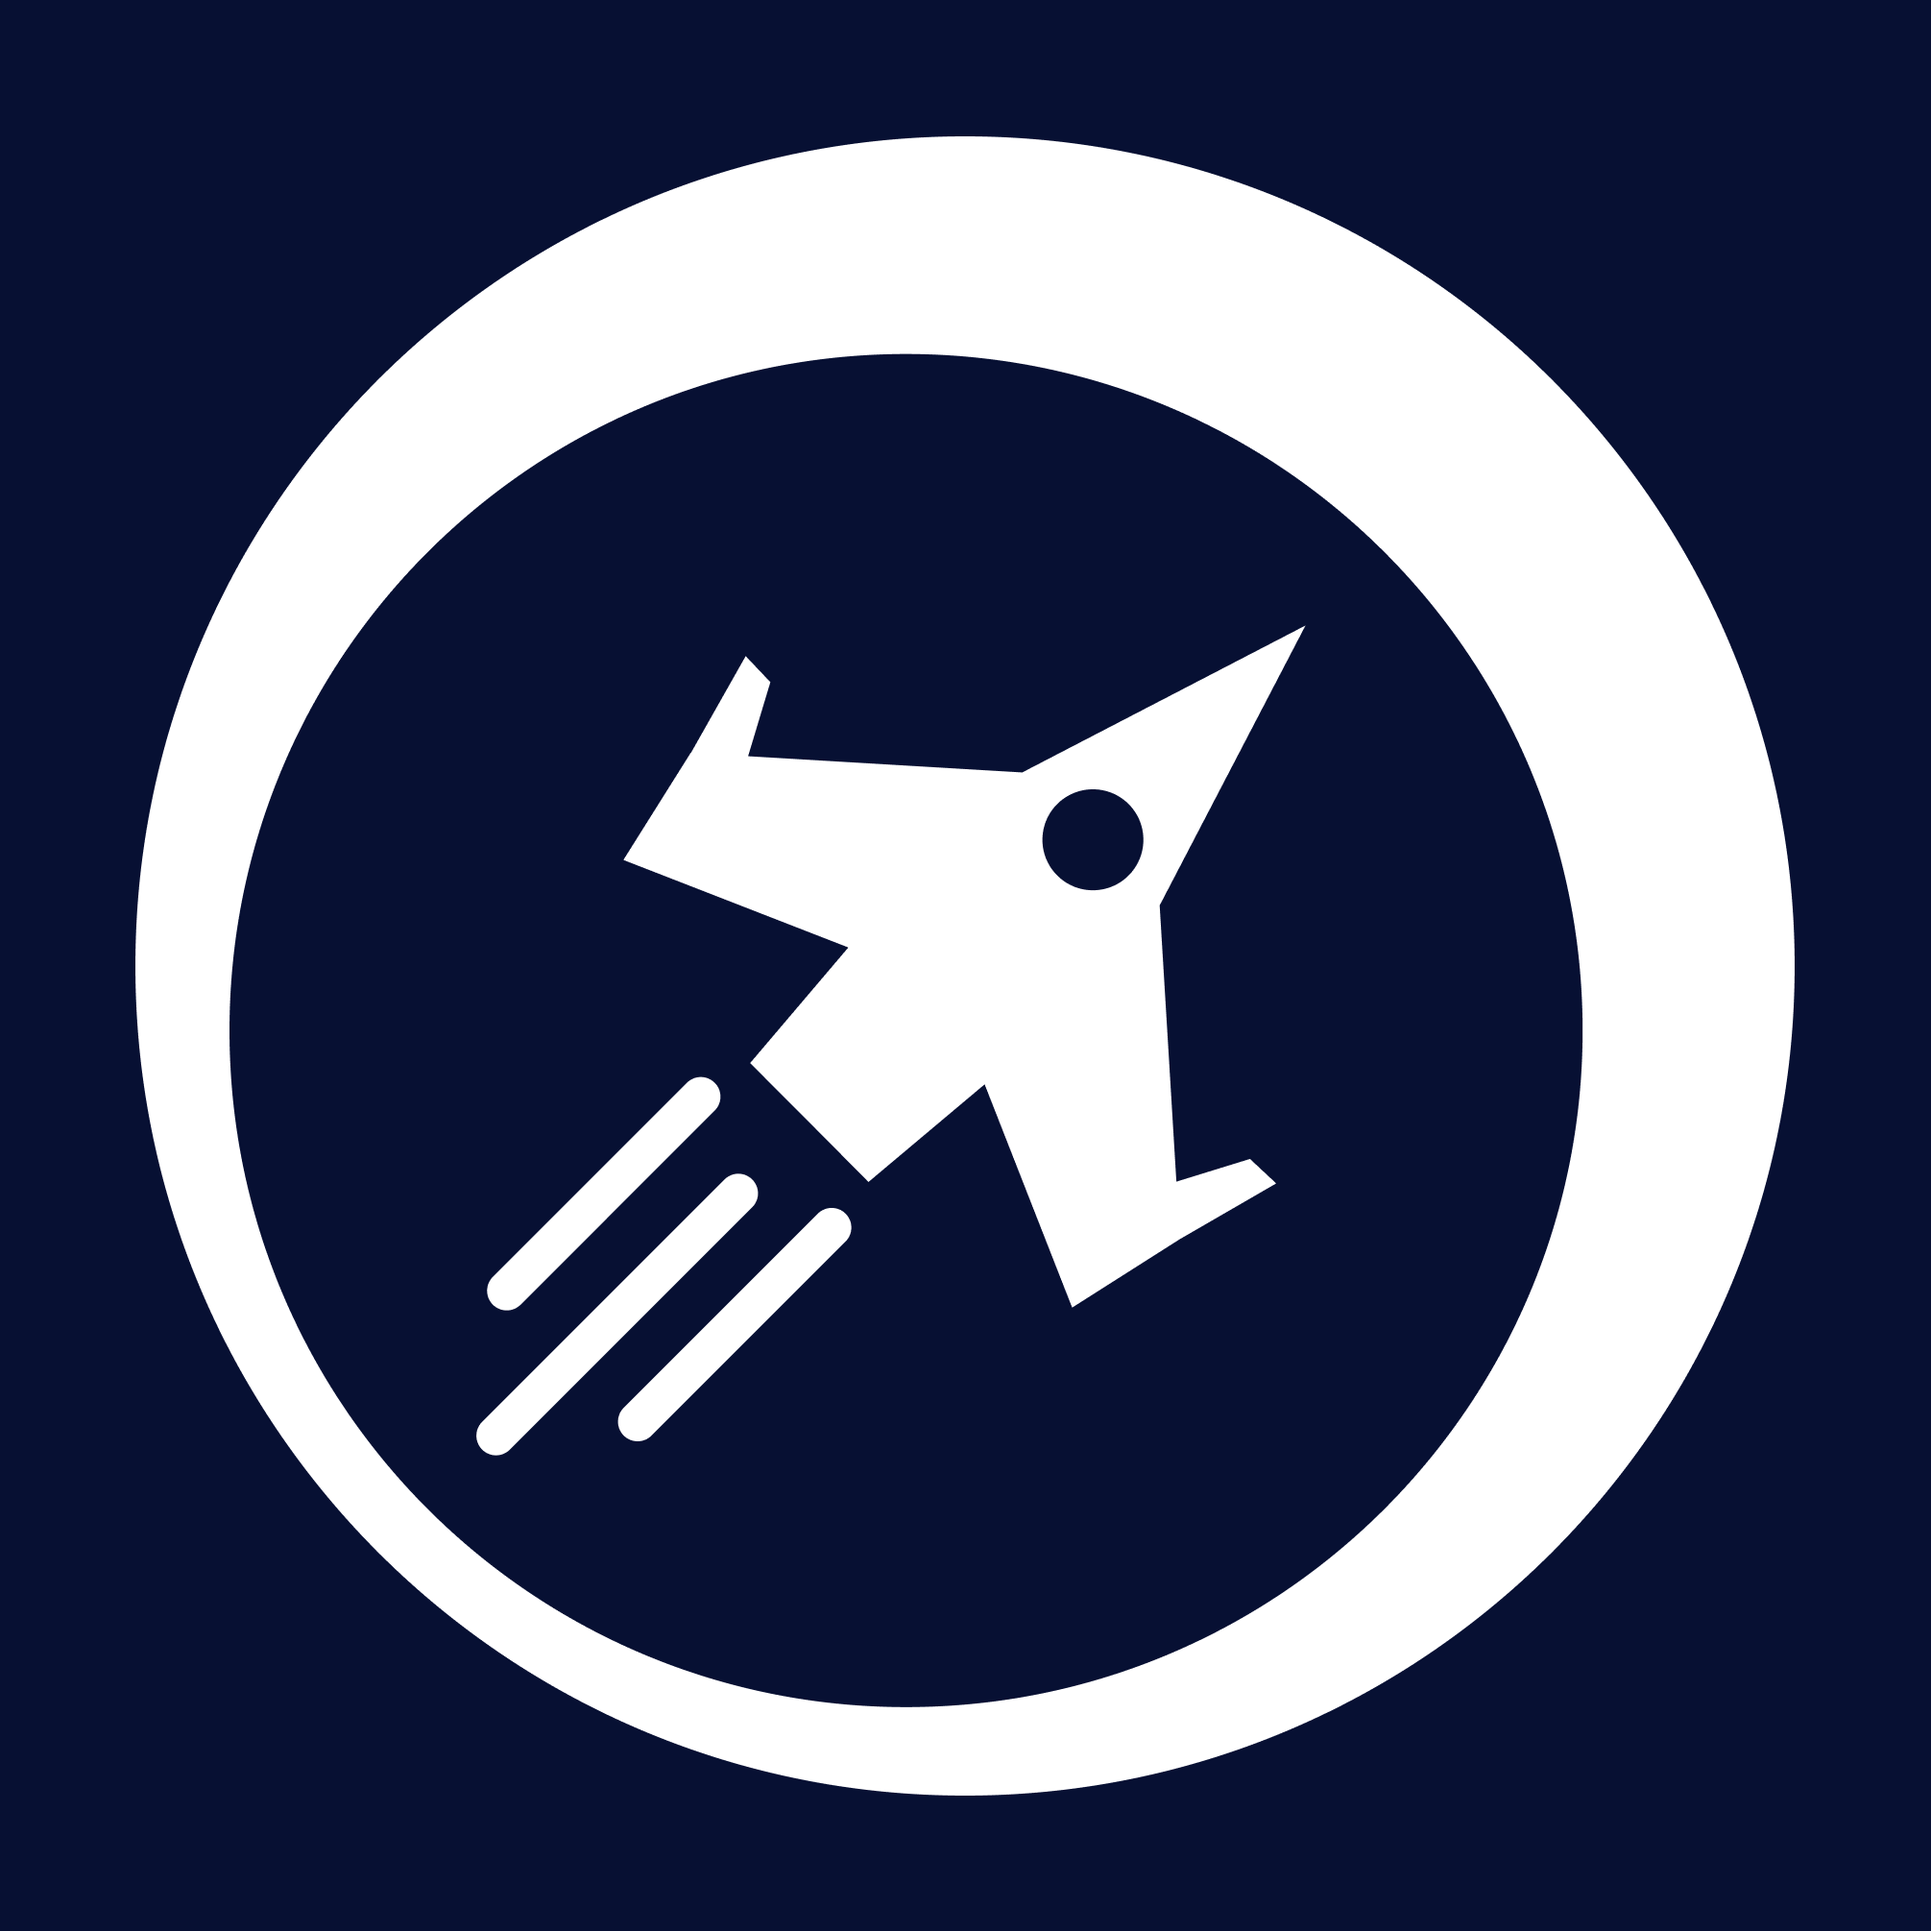
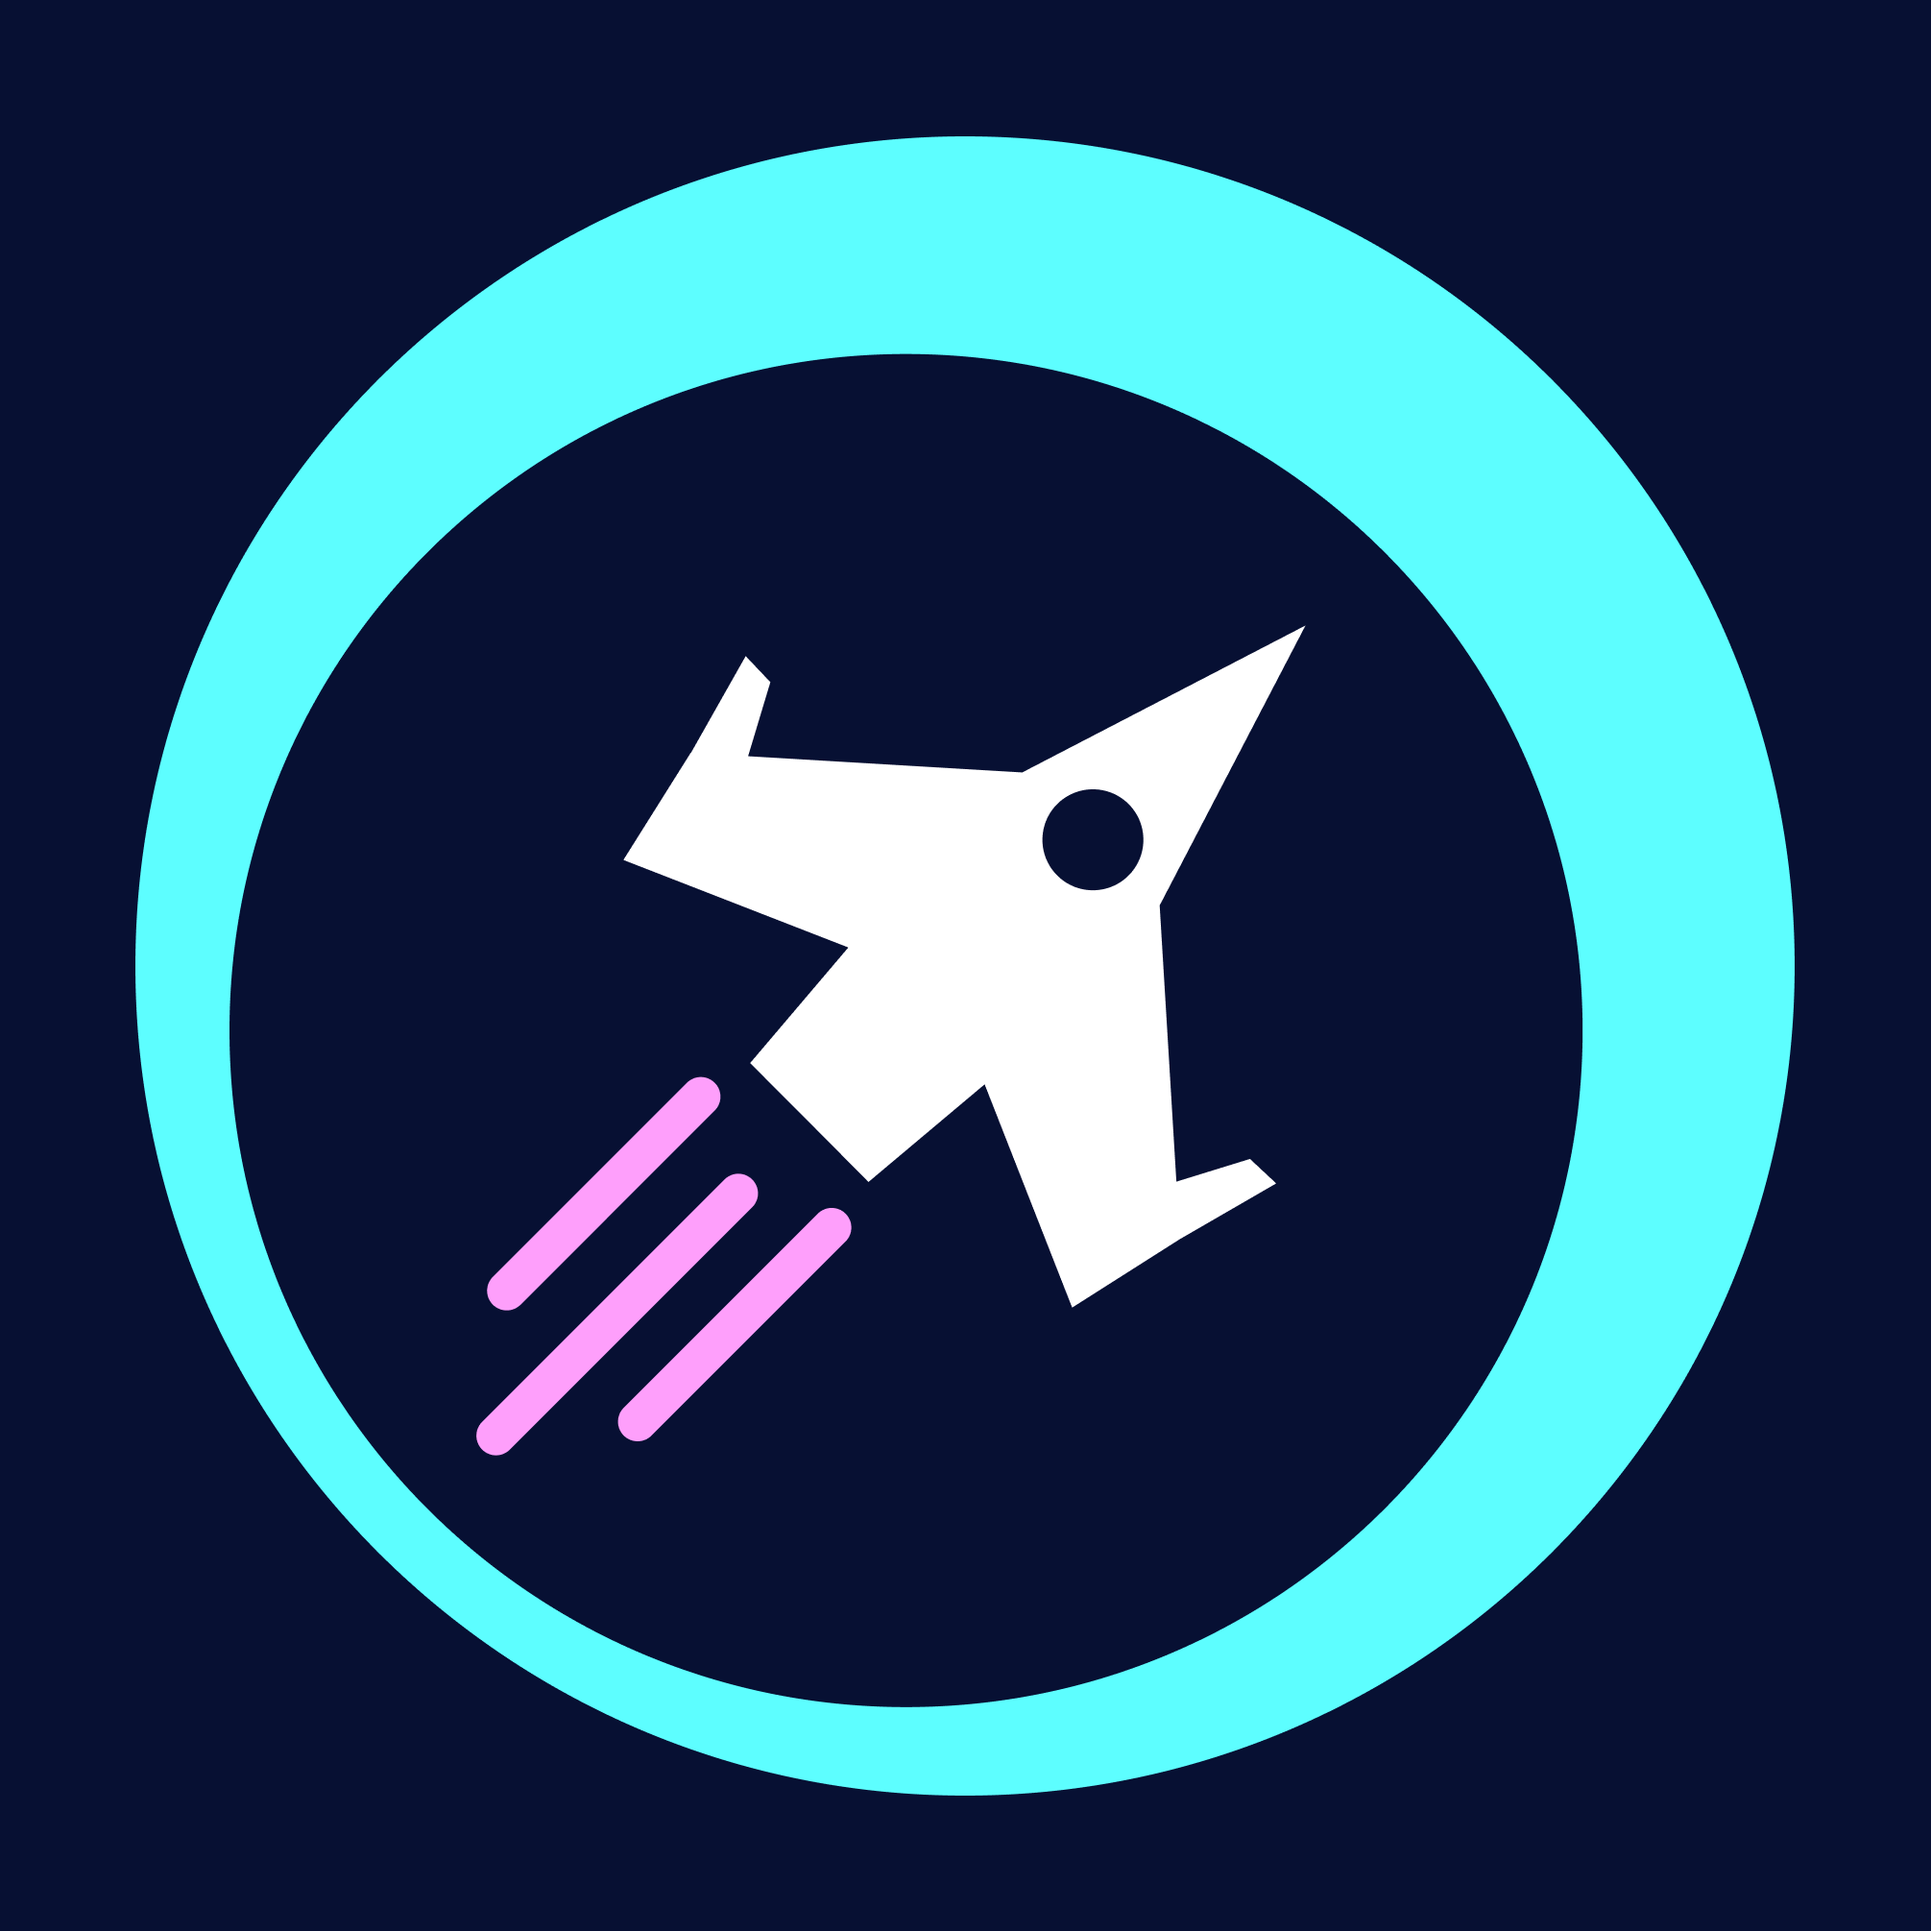
Icona: ciano/bianco/magenta a colori pieni (nitida in piccolo), export aggiornato
Claude-Session: https://claude.ai/code/session_01L3hCs3pP8CLUoc9btkLxMV

Changed region(s): [[0.0617, 0.0617, 0.9557, 0.9557], [0.2466, 0.5549, 0.4625, 0.7708]]

diff --git a/icon/export_app_icons.py b/icon/export_app_icons.py
@@ -16,16 +16,19 @@ S = 1024
 full = src.resize((S, S), Image.LANCZOS)
 
 a = np.asarray(src, float)
-bgl = sum(BG) / 3.0
-alpha = np.clip((a.mean(axis=2) - bgl) / (255 - bgl), 0, 1)
+# symbol = everything that is not the background; it keeps its own colours (cyan ring, white ship, magenta trails)
+bgarr = np.array(BG, float)
+dist = np.abs(a - bgarr).max(axis=2)
+alpha = np.clip(dist / 120.0, 0, 1)
 ys, xs = np.where(alpha > 0.5)
 x0, x1, y0, y1 = xs.min(), xs.max(), ys.min(), ys.max()
 cx, cy, d = (x0 + x1) / 2, (y0 + y1) / 2, max(x1 - x0, y1 - y0)
-sym = Image.fromarray((alpha * 255).astype(np.uint8), 'L')
+al = alpha[..., None]
+rgb = np.clip((a - (1 - al) * bgarr) / np.maximum(al, 1e-3), 0, 255)
+sym = Image.fromarray(np.dstack([rgb, alpha * 255]).astype(np.uint8), 'RGBA')
 side = d / SAFE
 box = (int(cx - side / 2), int(cy - side / 2), int(cx + side / 2), int(cy + side / 2))
-sym = sym.crop(box).resize((S, S), Image.LANCZOS)
-fg = Image.new('RGBA', (S, S), (255, 255, 255, 0)); fg.putalpha(sym)
+fg = sym.crop(box).resize((S, S), Image.LANCZOS)
 bg = Image.new('RGB', (S, S), BG)
 comp = bg.convert('RGBA'); comp.alpha_composite(fg)
 
